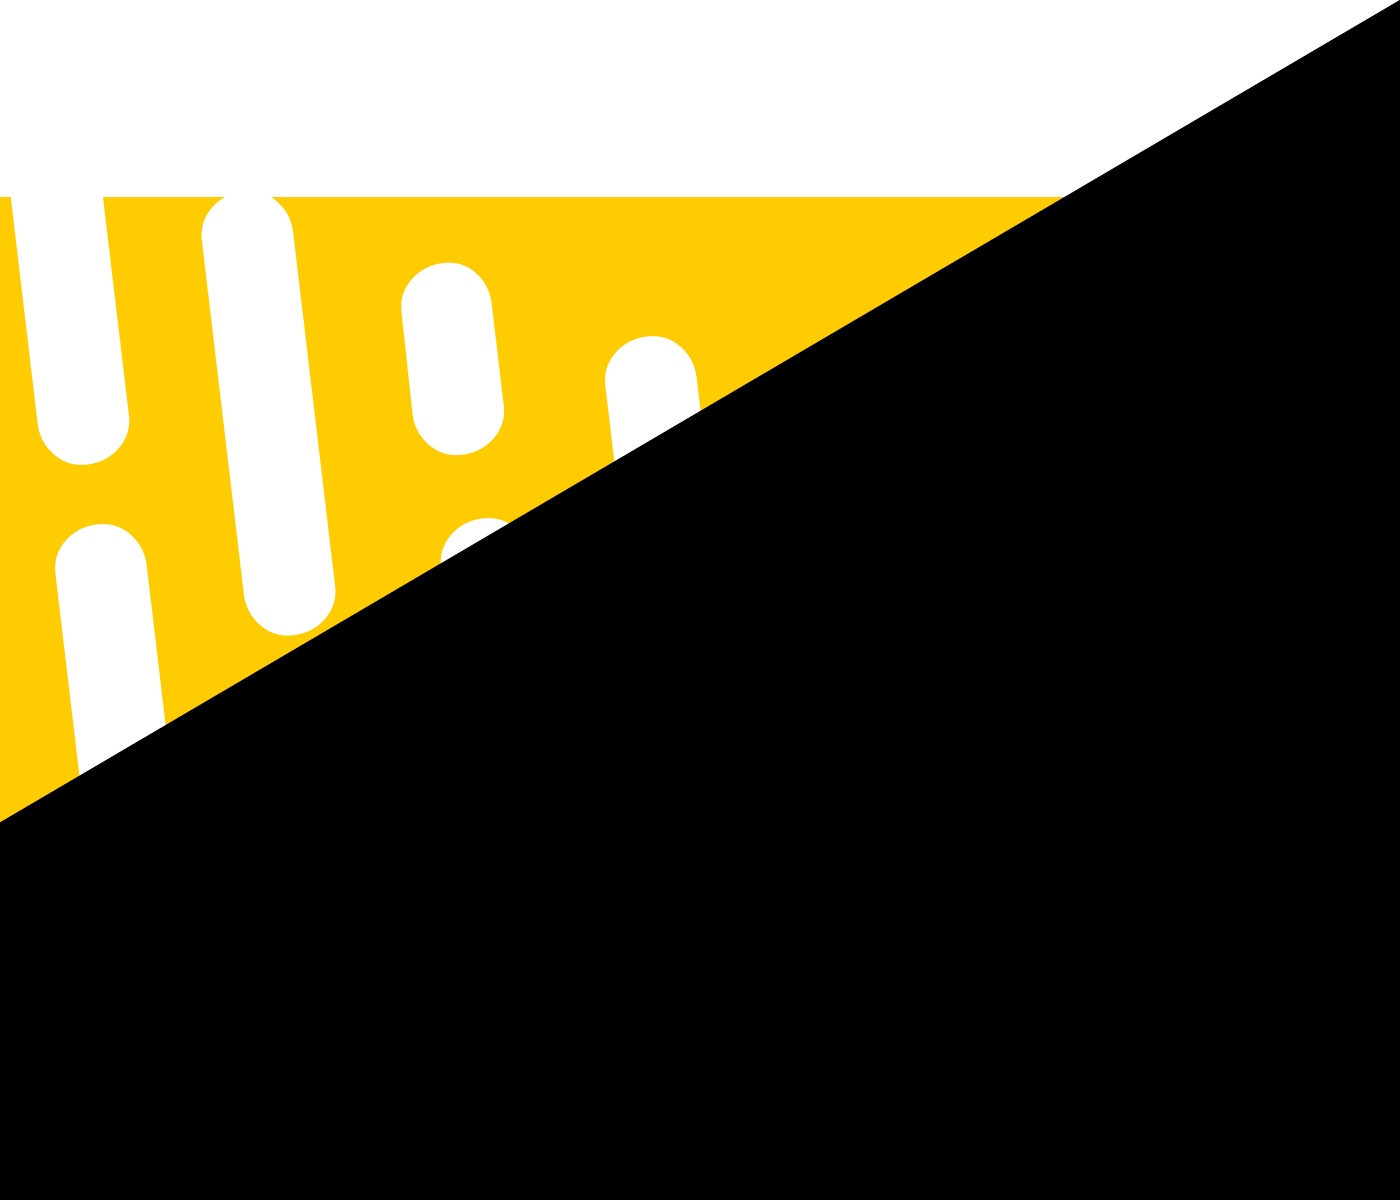
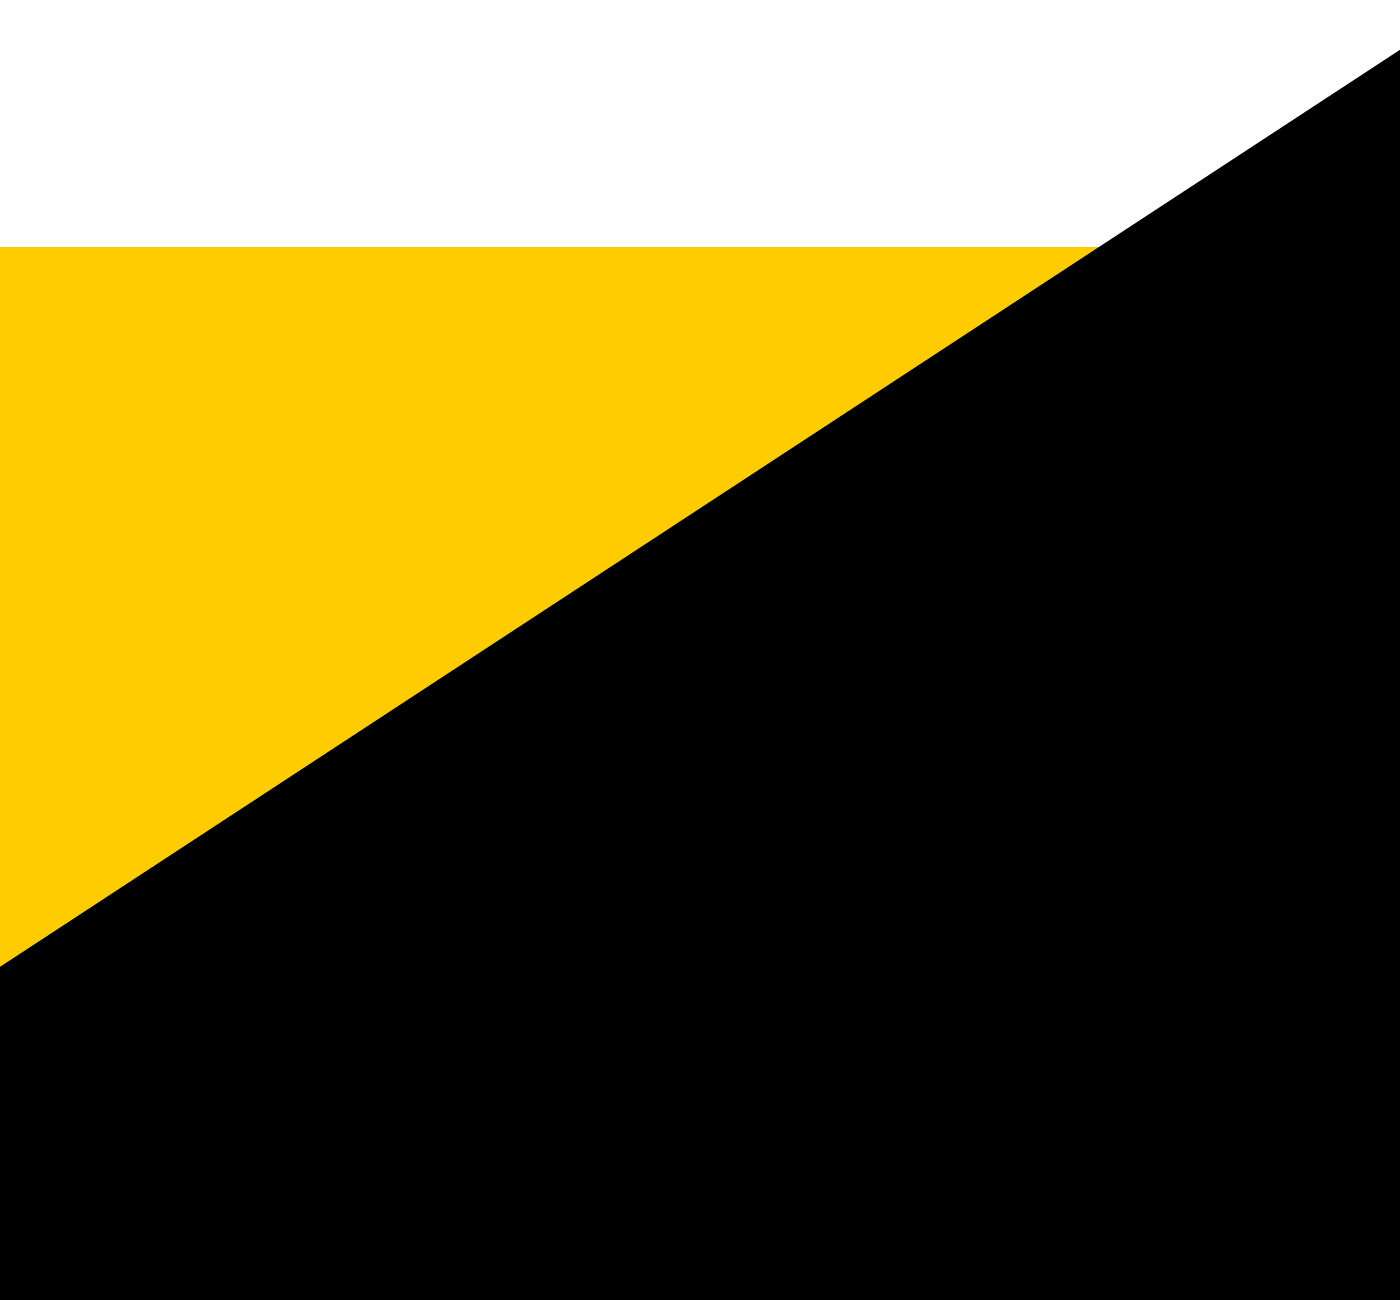
Responsividade Capa

Changed region(s): [[0.0, 0.0, 1.0, 0.74]]

diff --git a/src/Components/Cover/CoverElements.jsx b/src/Components/Cover/CoverElements.jsx
@@ -10,12 +10,17 @@ export const CoverBox = styled.header`
     margin-top: 250px;
     margin-bottom: 100px;
     position: relative;
+
+    @media screen and (max-width: 765px) {
+        
+        height: 830px;
+    }
 `;
 
 export const CoverBar = styled.div`
 
     background-color: #fff;
-    width: 75%;
+    width: 80%;
     height: 33px;
     position: absolute;
     top: 40px;
@@ -26,6 +31,8 @@ export const CoverContainer = styled.div`
 
     width: 100%;
     max-width: 1200px;
+    padding: 0px 20px;
+    padding-top: 100px;
     height: 100%;
     margin: auto;
     position: relative;
@@ -39,7 +46,7 @@ export const CoverLogo = styled.div`
     background-size: cover;
     position: absolute;
     top: -187px;
-    right: 0px;
+    right: 10px;
 `;
 
 export const BoxContainer = styled.div`
@@ -47,7 +54,7 @@ export const BoxContainer = styled.div`
     width: 100%;
     height: 80%;
     top: 20%;
-    position: absolute;
+    position: unset;
 `;
 
 export const TitleCover = styled.h1`
@@ -58,6 +65,11 @@ export const TitleCover = styled.h1`
     font-size: 110px;
     letter-spacing: 10px;
     font-weight: 500;
+
+    @media screen and (max-width: 765px) {
+
+        text-align: center;
+    }
 `;
 
 export const SubContainerBox = styled.div`
@@ -73,6 +85,12 @@ export const SubContainerImage = styled.div`
     width: 50%;
     background-color: white;
     position: relative;
+
+    @media screen and (max-width: 765px) {
+        
+        width: 100%;
+        position: unset;
+    }
 `;
 
 export const CoverImage = styled.div`
@@ -83,22 +101,47 @@ export const CoverImage = styled.div`
     background-size: cover;
     border: 5px solid white;
     position: absolute;
+
+    @media screen and (max-width: 765px) {
+        
+        width: 100%;
+        position: unset;
+    }
 `;
 
 export const SubContainerContent = styled.div`
 
     width: 50%;
+    margin-top: 20px;
     text-align: end;
+
+    @media screen and (max-width: 765px) {
+        
+        width: 70%;
+        margin-left: auto;
+        position: unset;
+    }
 `;
 
 export const SubTitleCover = styled.p`
 
     width: 100%;
     padding-bottom: 10px;
+    padding-left: 10px;
     color: #fff;
-    font-size: 32px;
+    font-size: 30px;
     text-align: end;
     border-bottom: 7px solid white;
+
+    @media screen and (max-width: 1050px) {
+        
+        font-size: 26px;
+    }
+
+    @media screen and (max-width: 850px) {
+        
+        font-size: 24px;
+    }
 `;
 
 export const ButtonCover = styled.button`
@@ -113,5 +156,22 @@ export const ButtonCover = styled.button`
     box-shadow: 0px 10px 5px rgba(0,0,0, 0.3);
     border: 0px;
     border-radius: 10px;
+
+    @media screen and (max-width: 1050px) {
+        
+        font-size: 24px;
+    }
+
+    @media screen and (max-width: 850px) {
+        
+        font-size: 22px;
+        padding: 10px 15px;
+    }
+
+    @media screen and (max-width: 765px) {
+        
+        font-size: 24px;
+        padding: 10px 20px;
+    }
 `;
 

diff --git a/src/Components/Projects/ProjectsElements.jsx b/src/Components/Projects/ProjectsElements.jsx
@@ -1,5 +1,6 @@
 import styled from "styled-components";
 import back from "../../images/back_projects.png"
+import backMax from "../../images/back_projects_max.png"
 import piscina from "../../images/piscina_project_01.jpeg"
 import project from "../../images/project_01.jpeg"
 import problems from "../../images/problems_projects.png"
@@ -8,6 +9,7 @@ export const ProjectsBox = styled.section`
 
     width: 100%;
     margin-top: 100px;
+    background-image: url(${backMax});
 `;
 
 export const ProjectsContainerBack = styled.div`
@@ -16,9 +18,14 @@ export const ProjectsContainerBack = styled.div`
     height: 100%;
     max-width: 1800px;
     margin: auto;
-    padding-top: 200px;
+    padding-top: 13%;
     background-image: url(${back});
     background-size: cover;
+
+    @media screen and (max-width: 1550px) {
+        
+        padding-top: 200px;
+    }
 `;
 
 export const BoxAlert = styled.div`
@@ -48,12 +55,14 @@ export const ProjectsContainer = styled.div`
     width: 100%;
     height: 100%;
     max-width: 1200px;
+    padding: 0px 20px;
     margin: auto;
 `;
 
 export const CarrosselContainer = styled.div`
 
-    width: 1200px;
+    width: 100%;
+    max-width: 1200px;
     height: 600px;
 `;
 
@@ -86,8 +95,8 @@ export const ImagesCarrosel = styled.div`
 
 export const ImagePost = styled.div`
 
-    width: 680px;
-    height: 400px;
+    width: 100%;
+    height: 380px;
     margin: auto;
     background-image: url(${piscina});
     background-size: cover;

diff --git a/src/Components/Contact/ContactElements.jsx b/src/Components/Contact/ContactElements.jsx
@@ -7,9 +7,12 @@ import contactBack from "../../images/contact.png"
 export const ContactBox = styled.section`
 
     width: 100%;
-    max-width: 1600px;
+    max-width: 2000px;
+    padding: 0px 20px;
+    margin: auto;
     height: 450px;
-    margin: 500px 0px 100px 0px;
+    margin-top: 500px;
+    margin-bottom: 100px;
     background-image: url(${contactBack});
     background-size: cover;
     background-position: center;

diff --git a/src/Components/Footer/FooterElements.jsx b/src/Components/Footer/FooterElements.jsx
@@ -11,7 +11,7 @@ export const FooterContainer = styled.div`
 
     width: 100%;
     max-width: 1200px;
-    padding: 30px 0px;
+    padding: 30px 20px;
     margin: auto;
     display: flex;
     flex-wrap: wrap;
